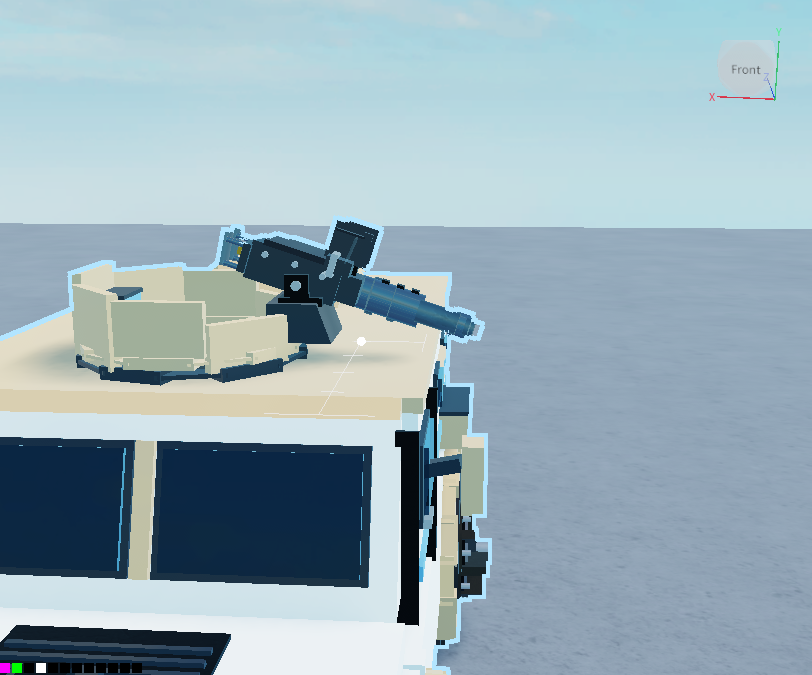
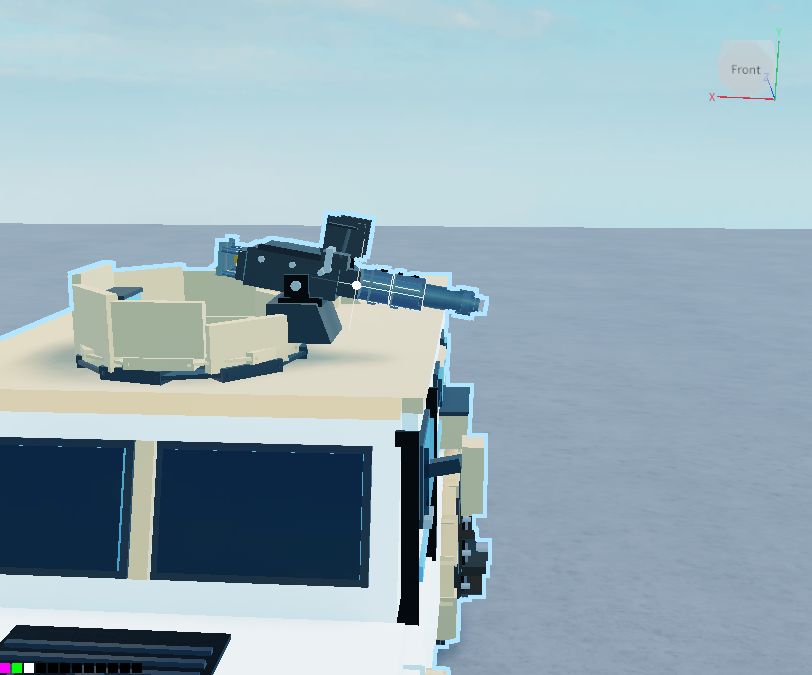
Proof: _low re-rendered at the hip-view floors (never merge)

Changed region(s): [[0.2463, 0.3111, 0.6158, 0.5289], [0.0308, 0.9644, 0.0616, 1.0], [0.431, 0.4978, 0.4618, 0.5289]]

diff --git a/README.md b/README.md
@@ -1,20 +1,20 @@
 # proof/gunner-range (never merge)
 
-Renders for Task 15 (PR from task/gunner-range, commit 01ce2e8), from `tools/vehicle_weapons_gallery.lua`'s
+Renders for Task 15 (PR #71 from task/gunner-range; `_high` shots from 01ce2e8, `_low` shots from 256d883), from `tools/vehicle_weapons_gallery.lua`'s
 `_low` and `_high` views on the Linux Studio harness with that commit's own build. Each turret is turned 90
 degrees left and seen side-on from in front, so the barrel's angle reads.
 
 | File | Pose | Look for |
 |---|---|---|
-| Rotster_low.png | roof gun at -18 | barrel over the roof edge, not into it |
+| Rotster_low.png | roof gun at -17 | barrel over the roof edge, not into it |
 | Rotster_high.png | roof gun at +36 | spade grips and ammo box above the roof and hatch ring |
-| CrocodiloRanger_low.png | rocket pod at -15 | pod clear of the cab roof and roll bar |
+| CrocodiloRanger_low.png | rocket pod at -12 | pod clear of the cab roof and roll bar |
 | CrocodiloRanger_high.png | rocket pod at +60 | pod clear of its yoke and pedestal |
 | SahurVan_low.png | mortar at +10 (its floor) | tube clear of the drum and bat |
 | SahurVan_high.png | mortar at +80 | tube near vertical, clear of the plinth |
 | TartarugaScout_low.png | HMG at -12 | barrel and shield over the cabin roof |
 | TartarugaScout_high.png | HMG at +34 | grips above the cabin roof |
-| CameloCarrier_low.png | grenade launcher at -18 | barrel over the armour roof's edge |
+| CameloCarrier_low.png | grenade launcher at -10 | barrel over the armour roof's edge |
 | CameloCarrier_high.png | grenade launcher at +55 | grips above the armour roof |
 
 The Studio sweep in the same gallery (every 15 degrees of yaw, 5 of pitch) found 0 poses meeting the vehicle's
